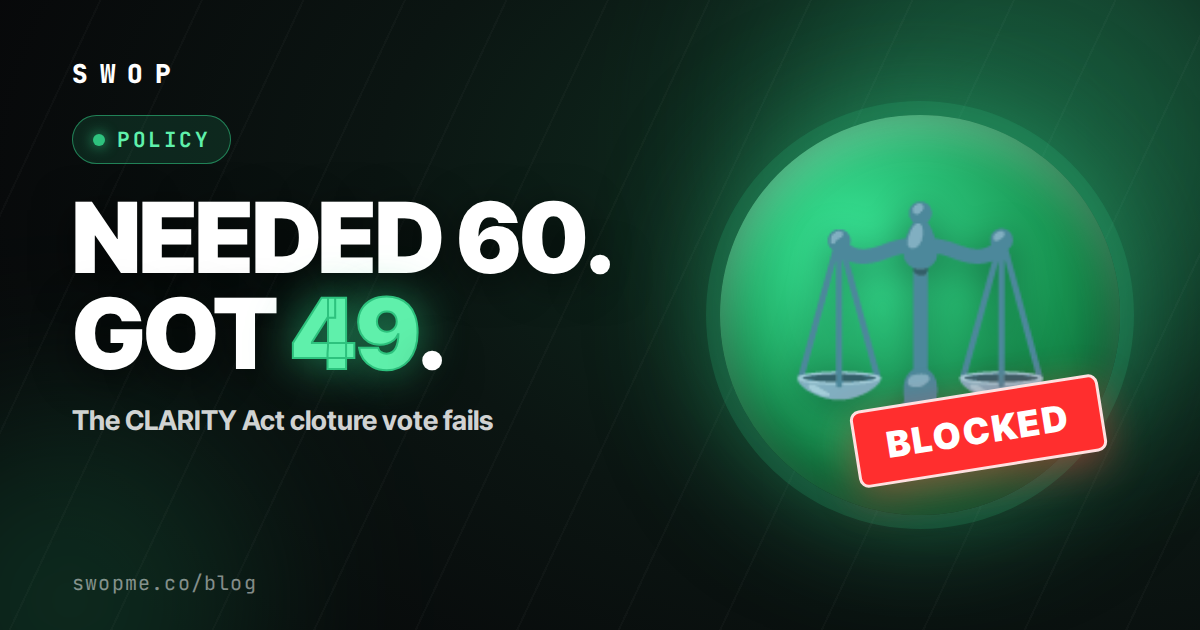
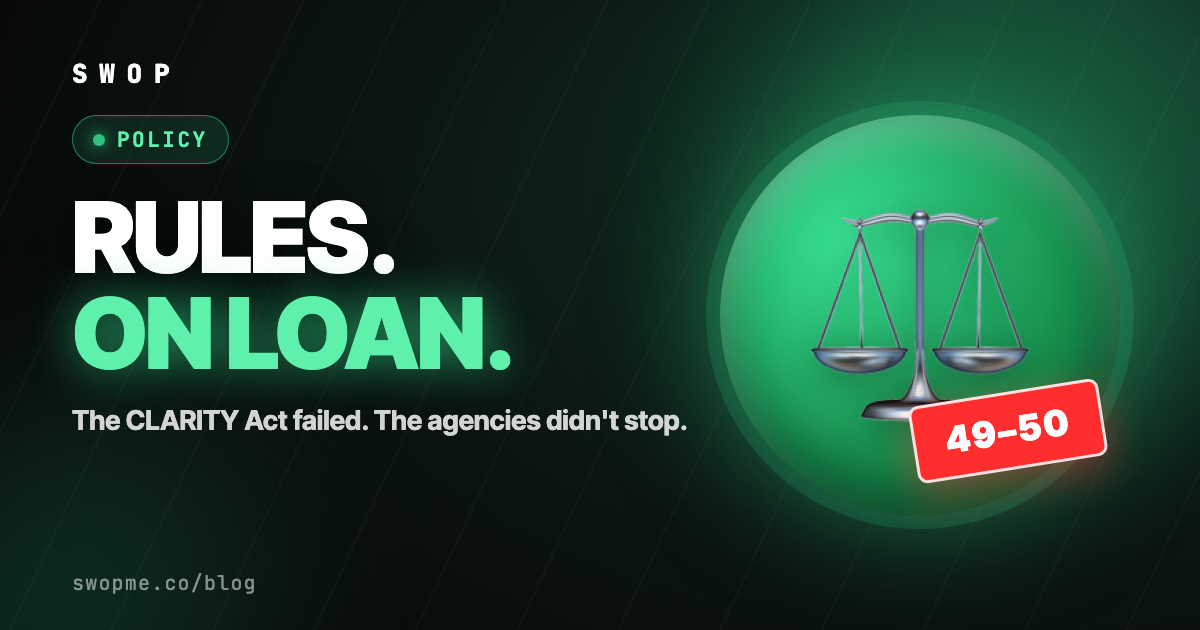
review: retarget CLARITY post to the case for legislation
Travis's direction: make the argument for why statute matters, researched
against what the SEC and CFTC are doing instead, framed around capital
entering the sector and builders staying stateside.

Factual fixes first:
- The draft said the 49-50 vote was 'nine votes short of 60' in two places.
  It is eleven short -- and one short of even a simple majority, which is
  the more telling number. Corrected both.
- Removed a shipped [NEEDS FACT] marker asking for dollar figures in the
  ethics dispute, replaced with what is actually reportable: no voting
  Democrat backed the motion and four Republicans opposed it.

Two new researched sections:
- 'What the agencies are building instead' -- SEC Project Crypto, the token
  taxonomy, and the Regulation Crypto Assets proposal of 2026-08-18; CFTC
  Crypto Sprint, listed spot crypto on DCMs since Dec 2025, and the joint
  March 2026 taxonomy naming sixteen digital commodities.
- 'Why a rule is not a law' -- the durability argument, made on
  administrative-law and capital-formation grounds rather than partisan
  ones: rules can be superseded, vacated, disapproved or never finalised,
  while capital underwriting ten-year horizons and founders choosing a
  jurisdiction are both buying duration.

Adds an explicit note separating our narrow claim (settle it in statute)
from the substantive fights that actually sank the vote, so the piece
argues for legislating without taking a side on the ethics provisions.
[…]

diff --git a/blog/clarity-act-vote-explained/index.html b/blog/clarity-act-vote-explained/index.html
@@ -3,14 +3,14 @@
 <head>
 <meta charset="UTF-8">
 <meta name="viewport" content="width=device-width, initial-scale=1.0, viewport-fit=cover">
-<title>CLARITY Act vote: what happened and what the bill does</title>
-<meta name="description" content="The Senate's CLARITY Act cloture vote failed 49-50 on September 15, 2026, nine votes short of 60. Here's what the bill does, why it stalled, and what's next.">
+<title>CLARITY Act Vote Failed: What the SEC and CFTC Are Doing Instead</title>
+<meta name="description" content="The Senate cloture vote failed 49-50 on September 15, 2026. The SEC and CFTC have built an alternative out of rulemaking — and why that is not the same as a law for capital and for builders.">
 <link rel="canonical" href="https://www.swopme.co/blog/clarity-act-vote-explained">
 <link rel="icon" href="/favicon.ico">
 <meta property="og:type" content="article">
 <meta property="og:site_name" content="Swop">
 <meta property="og:title" content="The CLARITY Act vote: what happened, and what the bill actually does">
-<meta property="og:description" content="A Senate cloture vote to advance crypto's market-structure bill failed 49-50 on September 15. What stalled it, and what passing would change.">
+<meta property="og:description" content="Agency rulemaking can deliver most of the substance of a market-structure regime. What it cannot deliver is the promise that it will still be there in four years.">
 <meta property="og:url" content="https://www.swopme.co/blog/clarity-act-vote-explained">
 <meta property="og:image" content="https://www.swopme.co/blog/clarity-act-vote-explained/og.png">
 <meta property="og:image:width" content="1200">
@@ -22,17 +22,25 @@
 <meta name="twitter:image" content="https://www.swopme.co/blog/clarity-act-vote-explained/og.png">
 <meta name="twitter:site" content="@swoplabs">
 <meta name="twitter:title" content="CLARITY Act vote: what happened and what the bill does">
-<meta name="twitter:description" content="A Senate cloture vote to advance crypto's market-structure bill failed 49-50 on September 15, 2026.">
+<meta name="twitter:description" content="Crypto did not lose its rules on September 15. It kept them on loan.">
 <script type="application/ld+json">
 {
   "@context": "https://schema.org",
   "@type": "Article",
   "headline": "The CLARITY Act vote: what happened, and what the bill actually does",
-  "description": "The Senate's CLARITY Act cloture vote failed 49-50 on September 15, 2026, nine votes short of 60. Here's what the bill would do, why it stalled, and what's next.",
+  "description": "The Senate cloture vote failed 49-50 on September 15, 2026. What the SEC and CFTC are building instead, and why agency rulemaking is not the same as a statute for capital formation and for where builders incorporate.",
   "datePublished": "2026-09-16",
   "dateModified": "2026-09-16",
-  "author": {"@type": "Organization", "name": "Swop Team", "url": "https://www.swopme.co/blog/authors/swop-team"},
-  "publisher": {"@type": "Organization", "name": "Swop", "url": "https://www.swopme.co"},
+  "author": {
+    "@type": "Organization",
+    "name": "Swop Team",
+    "url": "https://www.swopme.co/blog/authors/swop-team"
+  },
+  "publisher": {
+    "@type": "Organization",
+    "name": "Swop",
+    "url": "https://www.swopme.co"
+  },
   "mainEntityOfPage": "https://www.swopme.co/blog/clarity-act-vote-explained"
 }
 </script>
@@ -41,11 +49,62 @@
   "@context": "https://schema.org",
   "@type": "FAQPage",
   "mainEntity": [
-    {"@type": "Question", "name": "What is the CLARITY Act?", "acceptedAnswer": {"@type": "Answer", "text": "The CLARITY Act (the Digital Asset Market Clarity Act) is federal legislation that would split regulatory oversight of crypto between the SEC and CFTC. It defines a 'digital commodity' category for tokens on sufficiently decentralized networks, gives the CFTC primary jurisdiction over spot trading in that category, and leaves the SEC in charge of securities offerings, with a new limited exemption from full registration for qualifying token issuers."}},
-    {"@type": "Question", "name": "Did the CLARITY Act pass the Senate?", "acceptedAnswer": {"@type": "Answer", "text": "No. A Senate cloture vote to advance the bill failed 49-50 on September 15, 2026, nine votes short of the 60 needed to proceed. The House had already passed its own version, H.R. 3633, 294-134 in July 2025. A failed cloture vote does not kill a bill outright, but no new Senate vote is scheduled as of this writing."}},
-    {"@type": "Question", "name": "What are the three issues blocking the CLARITY Act?", "acceptedAnswer": {"@type": "Answer", "text": "Ethics restrictions on public officials' personal crypto holdings and income; developer liability for non-custodial software under the bill's Section 604; and a provision that would let exchanges pay yield on customer stablecoin balances, which opponents argue functions like an unlicensed bank deposit product."}},
-    {"@type": "Question", "name": "Does the CLARITY Act affect self-custody wallets like Swop?", "acceptedAnswer": {"@type": "Answer", "text": "The bill targets exchange and token-issuer market structure, not wallet custody directly. Swop is fully self-custodial — keys are generated and held on your device; Swop never holds them — regardless of how the market-structure debate resolves. The Section 604 developer-liability fight is the part most relevant to wallet and smart-contract builders, since it is the closest thing on the table to a federal rule on when publishing non-custodial software counts as money transmission."}},
-    {"@type": "Question", "name": "When will the Senate vote on the CLARITY Act again?", "acceptedAnswer": {"@type": "Answer", "text": "No new vote is scheduled. Senate leadership can call another cloture vote once the underlying disagreements narrow, but as of publication the ethics, developer-liability, and stablecoin-yield disputes remain unresolved."}}
+    {
+      "@type": "Question",
+      "name": "If the CLARITY Act failed, does the U.S. have no crypto rules?",
+      "acceptedAnswer": {
+        "@type": "Answer",
+        "text": "No. The SEC has proposed Regulation Crypto Assets, a tailored offering regime for crypto investment contracts, and has been working toward a token taxonomy under its Project Crypto initiative. The CFTC's Crypto Sprint has gone further in practice: listed spot crypto products began trading on federally regulated U.S. markets in December 2025, and a joint March 2026 release named sixteen assets as digital commodities under primary CFTC oversight."
+      }
+    },
+    {
+      "@type": "Question",
+      "name": "If the agencies are already regulating crypto, why does legislation matter?",
+      "acceptedAnswer": {
+        "@type": "Answer",
+        "text": "Because a rule and a statute differ in how easily they can be undone. A future commission can supersede a rule, a court can vacate it, Congress can disapprove it, and a proposed rule can simply never be finalised. Changing a statute requires both chambers and a signature. Capital committing across ten-year horizons and founders choosing where to incorporate are both buying duration, so guidance a successor could withdraw is discounted."
+      }
+    },
+    {
+      "@type": "Question",
+      "name": "What is the CLARITY Act?",
+      "acceptedAnswer": {
+        "@type": "Answer",
+        "text": "The CLARITY Act (the Digital Asset Market Clarity Act) is federal legislation that would split regulatory oversight of crypto between the SEC and CFTC. It defines a 'digital commodity' category for tokens on sufficiently decentralized networks, gives the CFTC primary jurisdiction over spot trading in that category, and leaves the SEC in charge of securities offerings, with a new limited exemption from full registration for qualifying token issuers."
+      }
+    },
+    {
+      "@type": "Question",
+      "name": "Did the CLARITY Act pass the Senate?",
+      "acceptedAnswer": {
+        "@type": "Answer",
+        "text": "No. A Senate cloture vote to advance the bill failed 49-50 on September 15, 2026, nine votes short of the 60 needed to proceed. The House had already passed its own version, H.R. 3633, 294-134 in July 2025. A failed cloture vote does not kill a bill outright, but no new Senate vote is scheduled as of this writing."
+      }
+    },
+    {
+      "@type": "Question",
+      "name": "What are the three issues blocking the CLARITY Act?",
+      "acceptedAnswer": {
+        "@type": "Answer",
+        "text": "Ethics restrictions on public officials' personal crypto holdings and income; developer liability for non-custodial software under the bill's Section 604; and a provision that would let exchanges pay yield on customer stablecoin balances, which opponents argue functions like an unlicensed bank deposit product."
+      }
+    },
+    {
+      "@type": "Question",
+      "name": "Does the CLARITY Act affect self-custody wallets like Swop?",
+      "acceptedAnswer": {
+        "@type": "Answer",
+        "text": "The bill targets exchange and token-issuer market structure, not wallet custody directly. Swop is fully self-custodial — keys are generated and held on your device; Swop never holds them — regardless of how the market-structure debate resolves. The Section 604 developer-liability fight is the part most relevant to wallet and smart-contract builders, since it is the closest thing on the table to a federal rule on when publishing non-custodial software counts as money transmission."
+      }
+    },
+    {
+      "@type": "Question",
+      "name": "When will the Senate vote on the CLARITY Act again?",
+      "acceptedAnswer": {
+        "@type": "Answer",
+        "text": "No new vote is scheduled. Senate leadership can call another cloture vote once the underlying disagreements narrow, but as of publication the ethics, developer-liability, and stablecoin-yield disputes remain unresolved."
+      }
+    }
   ]
 }
 </script>
@@ -66,9 +125,9 @@
 <div class="wrap">
 <div class="art-crumb"><a href="/blog">Blog</a><span>/</span><span class="cur">Policy</span></div>
 <h1 class="tight">The CLARITY Act vote: what happened, and what the bill actually does</h1>
-<p class="art-dek">A Senate cloture vote to advance crypto's market-structure bill failed 49-50 on September 15. Here's what stalled it, and what passing would actually change.</p>
+<p class="art-dek">The vote failed 49&ndash;50. But the agencies have spent a year building an alternative &mdash; and the gap between a rule and a law is the gap between capital that commits and capital that waits.</p>
 <div class="art-meta">
-<span class="by"><span class="ini">ST</span><a class="nm" href="/blog/authors/swop-team">Swop Team</a><span class="sep"></span><span class="mono">Sep 16, 2026</span><span class="sep"></span><span class="mono">Updated Sep 16, 2026</span><span class="sep"></span><span class="mono">7 min read</span></span>
+<span class="by"><span class="ini">ST</span><a class="nm" href="/blog/authors/swop-team">Swop Team</a><span class="sep"></span><span class="mono">Sep 16, 2026</span><span class="sep"></span><span class="mono">Updated Sep 16, 2026</span><span class="sep"></span><span class="mono">9 min read</span></span>
 <span class="share"><a href="#" id="copy-link">Copy link</a><a href="https://x.com/intent/tweet?text=The%20CLARITY%20Act%20cloture%20vote%20failed%2049-50.%20Here%27s%20what%20the%20bill%20actually%20does%3A&url=https%3A%2F%2Fwww.swopme.co%2Fblog%2Fclarity-act-vote-explained" target="_blank" rel="noopener">X</a><a href="https://warpcast.com/~/compose?text=The%20CLARITY%20Act%20cloture%20vote%20failed%2049-50.%20Here%27s%20what%20the%20bill%20actually%20does%3A&embeds[]=https%3A%2F%2Fwww.swopme.co%2Fblog%2Fclarity-act-vote-explained" target="_blank" rel="noopener">Farcaster</a></span>
 </div>
 </div>
@@ -82,11 +141,14 @@
 <a href="#s2">The September 15 vote</a>
 <a href="#s3">The three fights holding it up</a>
 <a href="#s4">What happens next</a>
-<a href="#s5">What it means for self-custody and builders</a>
+<a href="#s5">What the agencies are building instead</a>
+<a href="#s6">Why a rule is not a law</a>
+<a href="#s7">What it means for self-custody and builders</a>
 <a href="#faq">FAQ</a>
 </aside>
 <article class="prose">
-<p>The CLARITY Act is the bill meant to give crypto exchanges and token issuers a federal rulebook, splitting oversight between the Securities and Exchange Commission and the Commodity Futures Trading Commission instead of leaving classification questions to case-by-case enforcement lawsuits. On September 15, 2026, a Senate cloture vote to take it up failed 49-50 — nine votes short of the 60 needed — over three unresolved disputes: ethics restrictions on public officials' crypto income, developer liability for non-custodial software, and whether exchanges can pay yield on stablecoin balances. The bill is not dead, but no new vote is scheduled.</p>
+<p>The CLARITY Act is the bill meant to give crypto exchanges and token issuers a federal rulebook, splitting oversight between the Securities and Exchange Commission and the Commodity Futures Trading Commission instead of leaving classification questions to case-by-case enforcement lawsuits. On September 15, 2026, a Senate cloture vote to take it up failed 49&ndash;50 &mdash; eleven votes short of the 60 needed, and one short of even a simple majority — over three unresolved disputes: ethics restrictions on public officials' crypto income, developer liability for non-custodial software, and whether exchanges can pay yield on stablecoin balances. The bill is not dead, but no new vote is scheduled.</p>
+<p>The more useful question is what happens without a statute &mdash; because the answer is not nothing. The SEC and the CFTC have spent the past year building a substitute out of rulemaking and interpretive guidance, and much of it is already operating. That substitute is real and it is useful. It is also structurally weaker than a law in precisely the way that decides whether capital commits and whether builders incorporate here.</p>
 
 <h2 id="s1">What the bill would actually do</h2>
 <p>The Senate has been negotiating its own companion to <a class="link" href="https://www.congress.gov/bill/119th-congress/house-bill/3633/text" target="_blank" rel="noopener">H.R. 3633, the Digital Asset Market Clarity Act</a>, which the House passed 294-134 in July 2025. The core idea is a jurisdictional line that does not currently exist in statute: the bill defines a "digital commodity" category for tokens on networks decentralized enough that no single party controls them, hands the CFTC primary authority over spot trading in that category, and leaves the SEC in charge of securities offerings and primary-market fundraising — with a new, limited exemption from full SEC registration for issuers that meet specific conditions.</p>
@@ -98,7 +160,7 @@
 <h2 id="s3">The three fights holding it up</h2>
 <p>Reporting on the negotiations converges on the same three sticking points, and none of them is really about whether crypto should have a market-structure law — they're about specific text inside this one.</p>
 <ul>
-<li><strong>Ethics rules on officials' crypto income.</strong> Democrats want stronger restrictions on sitting officials' personal financial ties to crypto ventures, a concern sharpened by public reporting on the President's own crypto-related income. Republicans added some ethics language in the Sunday revision; Democratic holdouts said it wasn't enough. <em>[NEEDS FACT: the precise scope and dollar figures cited in this dispute — see PR notes.]</em></li>
+<li><strong>Ethics rules on officials' crypto income.</strong> Democrats want stronger restrictions on sitting officials' personal financial ties to crypto ventures, a concern sharpened by public reporting on the President's own crypto-related income. Republicans added some ethics language in the Sunday revision; Democratic holdouts said it wasn't enough. Reporting put the coalition's collapse squarely here rather than on the market-structure framework itself: no voting Democrat supported the motion, and four Republicans opposed it.</li>
 <li><strong>Section 604 — developer liability.</strong> This section incorporates language from the Blockchain Regulatory Certainty Act: a developer who writes non-custodial software, and who cannot control or execute a user's transaction, would not be classified as a money-transmitting business solely for building or publishing that software. A companion amendment preserves criminal liability for anyone who "knowingly" facilitates illicit transactions. The fight is over exactly where "publishing code" ends and "operating a service" begins — and how much comfort that line actually gives a developer before the fact rather than after an indictment.</li>
 <li><strong>Stablecoin yield.</strong> As drafted, the bill would let exchanges pay yield on customers' stablecoin balances. Opponents — banking-industry lobbyists and some Democrats — argue that functions like an unlicensed bank deposit product, since it pays a return on a balance without the capital and disclosure rules banks operate under. It's also commercially loaded: stablecoin reward programs are a real revenue line for large exchanges today, so this isn't an abstract argument for the companies on either side of it.</li>
 </ul>
@@ -106,15 +168,36 @@
 <h2 id="s4">What happens next</h2>
 <p>A failed cloture vote is a procedural stop, not a repeal. Senate leadership can schedule another cloture vote whenever it believes the votes are there, and that usually means the underlying text has to move first. As of publication, no new vote is on the calendar, and each of the three disputes above is still open. Because the House and Senate would need to agree on identical text before anything reaches the President, a Senate breakthrough would still require reconciling with the House-passed H.R. 3633 rather than simply adopting whatever the Senate eventually passes.</p>
 
-<h2 id="s5">What it means for self-custody and builders</h2>
+<h2 id="s5">What the agencies are building instead</h2>
+<p>While the bill stalled, both agencies moved. Treating the failed vote as &ldquo;no rules&rdquo; misreads the situation badly &mdash; the more accurate description is that rules are arriving, just from regulators rather than from Congress.</p>
+<p><strong>The SEC.</strong> Chairman Paul Atkins&rsquo; <em>Project Crypto</em> initiative has been working toward a token taxonomy that sorts assets into categories rather than litigating them one at a time &mdash; digital commodities, digital collectibles, digital tools, and tokenized securities. On August 18, 2026 the Commission went further and proposed <em>Regulation Crypto Assets</em>, a tailored offering regime for investment contracts involving crypto assets, drawing on Commissioner Hester Peirce&rsquo;s earlier token safe-harbor work. It contemplates a time-limited startup exemption &mdash; on the order of a capped raise while a network works toward maturity. The SEC said plainly that part of the point is to reduce the incentive for issuers to organise offshore.</p>
+<p><strong>The CFTC.</strong> Its <em>Crypto Sprint</em> has been more concrete still. Listed spot crypto products began trading on federally regulated U.S. markets for the first time in December 2025, with designated contract markets permitted to list spot products &mdash; including leveraged contracts for retail &mdash; under the same oversight applied to futures. And in a joint release in March 2026, the agencies published a taxonomy naming sixteen assets as digital commodities under primary CFTC oversight, Bitcoin, Ether and Solana among them.</p>
+<p>That is a meaningful amount of clarity, and it arrived faster than the legislative process did. Anyone claiming the United States has no crypto policy is describing 2022.</p>
+
+<h2 id="s6">Why a rule is not a law</h2>
+<p>Here is the part that the vote count actually decides. A rule and a statute can say identical things and still be worth different amounts to the person deciding where to put money or where to incorporate, because they differ in how hard they are to undo.</p>
+<p>An agency rule is the product of the agency that wrote it. A future commission can propose a new rule that supersedes it. A court can vacate it. Congress can pass a resolution of disapproval. A proposal &mdash; and <em>Regulation Crypto Assets</em> is still a proposal &mdash; can simply never be finalised. None of that requires anyone to act in bad faith; it is the ordinary machinery of administrative law working as designed. A statute is not immune to change either, but changing one requires both chambers and a signature, which is a far higher bar than a change of chair.</p>
+<p>That difference shows up directly in two places.</p>
+<ul>
+<li><strong>Capital underwrites duration.</strong> A fund committing to a ten-year vehicle, or a bank deciding whether to custody, is pricing a regulatory regime across a horizon longer than any single administration. Guidance that could be withdrawn by a successor gets discounted &mdash; not to zero, but discounted. Meanwhile the funding environment has tightened on its own: new venture fund formation hit its lowest quarterly total since 2020 in Q1 2026, with roughly $1.1 billion committed across eight new funds, and the top thirty firms have been absorbing the large majority of what is raised. When capital is scarce and concentrated, the marginal allocator has every reason to wait for the version that survives an election.</li>
+<li><strong>Builders incorporate where the rules keep.</strong> Choosing a jurisdiction is a multi-year, expensive, hard-to-reverse decision, and founders make it against the rules they expect to exist at exit, not the rules today. That is why offshore structuring persisted through a friendlier turn in Washington, and why the SEC named onshore issuance as an explicit goal of its own proposal. Compliance cost compounds the same way: licensing and compliance can run into the millions annually at scale, which is survivable against a stable rulebook and brutal against one that might be rewritten mid-build.</li>
+</ul>
+<p>So the honest reading of September 15 is not that crypto lost its rules. It is that crypto kept its rules on loan. Agency action can deliver most of the substance of a market-structure regime; what it cannot deliver is the commitment that the regime will still be there in four years &mdash; and duration is the specific thing both capital and founders are buying.</p>
+<div class="note"><span class="k">To be clear about the disagreement</span>The three fights that sank this vote are real, and reasonable people land in different places on all of them &mdash; particularly the ethics provisions, which is where the coalition actually broke. The argument here is narrower and, we think, separable: whatever the right substantive answers are, settling them in statute is worth more than settling them in guidance. That case does not depend on any particular bill passing.</div>
+
+<h2 id="s7">What it means for self-custody and builders</h2>
 <p>None of the three fights above change the thing that actually determines whether your assets are safe today: who holds the signing key. <strong>Swop is fully self-custodial — keys are generated and held on your device; Swop never holds them.</strong> That doesn't move regardless of how the SEC/CFTC jurisdictional question gets settled, because the bill is about exchange and issuer market structure, not wallet custody.</p>
 <p>The part of this fight that matters most directly to builders is Section 604. Until something like it becomes law, whether writing and publishing a smart contract, a DEX front end, or a non-custodial wallet interface exposes a developer to money-transmission liability keeps getting decided case by case rather than by a bright-line federal rule — which is exactly the ambiguity the digital-commodity classification fight is also trying to resolve for exchanges and issuers. <a class="link" href="https://apps.apple.com/us/app/swop-connecting-the-world/id1593201322">Swop</a> runs on Solana, Ethereum, Base, and Polygon. Transactions on Swop are gas-sponsored — you don't need to hold SOL or ETH to transact — and none of that changes with this bill either way.</p>
 
 <h2 id="faq">FAQ</h2>
+<h3>If the bill failed, does the U.S. have no crypto rules?</h3>
+<p>No &mdash; that describes 2022, not now. The SEC has proposed Regulation Crypto Assets, a tailored offering regime for crypto investment contracts, and has been working toward a token taxonomy under its Project Crypto initiative. The CFTC's Crypto Sprint has gone further in practice: listed spot crypto products began trading on federally regulated U.S. markets in December 2025, and a joint March 2026 release named sixteen assets as digital commodities under primary CFTC oversight.</p>
+<h3>If the agencies are already doing it, why does legislation matter?</h3>
+<p>Because a rule and a statute differ in how easily they are undone. A future commission can supersede a rule, a court can vacate it, Congress can disapprove it, and a proposal can simply never be finalised &mdash; all ordinary administrative process, no bad faith required. Changing a statute takes both chambers and a signature. Capital committing to ten-year horizons and founders choosing a jurisdiction are both buying duration, and guidance that a successor could withdraw gets discounted accordingly.</p>
 <h3>What is the CLARITY Act?</h3>
 <p>Federal legislation that would split crypto oversight between the SEC and CFTC: a new "digital commodity" category for sufficiently decentralized tokens goes to the CFTC for spot trading, while the SEC keeps authority over securities offerings, with a limited registration exemption for qualifying issuers.</p>
 <h3>Did the CLARITY Act pass the Senate?</h3>
-<p>No. A cloture vote to advance it failed 49-50 on September 15, 2026 — nine votes short of 60. The House passed its own version, H.R. 3633, 294-134 in July 2025. The bill isn't dead, but no new Senate vote is scheduled.</p>
+<p>No. A cloture vote to advance it failed 49&ndash;50 on September 15, 2026 &mdash; eleven short of the 60 required, and one short of a simple majority. The House passed its own version, H.R. 3633, 294-134 in July 2025. The bill isn't dead, but no new Senate vote is scheduled.</p>
 <h3>What are the three issues blocking the CLARITY Act?</h3>
 <p>Ethics restrictions on officials' personal crypto holdings and income; developer liability for non-custodial software under Section 604; and a stablecoin-yield provision that critics say functions like an unlicensed bank deposit product.</p>
 <h3>Does the CLARITY Act affect self-custody wallets like Swop?</h3>

diff --git a/blog/clarity-act-vote-explained/og.html b/blog/clarity-act-vote-explained/og.html
@@ -32,7 +32,7 @@
 
   h1 { font-size:98px; line-height:.98; font-weight:900; letter-spacing:-.025em;
        text-shadow:0 8px 40px rgba(0,0,0,.6); }
-  h1 .num { color:#5ff0ab; -webkit-text-stroke:2px #2ec27e; text-shadow:0 0 46px rgba(46,194,126,.75); }
+  h1 .num { color:#5ff0ab; text-shadow:0 0 46px rgba(46,194,126,.75); }
   .sub { margin-top:22px; font-size:27px; font-weight:700; color:rgba(255,255,255,.82); }
 
   /* right visual: scales of justice on a glowing disc, with a rejection stamp */
@@ -61,13 +61,13 @@
     <div class="left">
       <div class="logo">SWOP</div>
       <div class="kick"><div class="dot"></div>Policy</div>
-      <h1>NEEDED 60.<br>GOT <span class="num">49</span>.</h1>
-      <div class="sub">The CLARITY Act cloture vote fails</div>
+      <h1>RULES.<br><span class="num">ON LOAN.</span></h1>
+      <div class="sub">The CLARITY Act failed. The agencies didn't stop.</div>
     </div>
   </div>
   <div class="right">
     <div class="coin"><span>⚖</span></div>
-    <div class="stamp">BLOCKED</div>
+    <div class="stamp">49&ndash;50</div>
   </div>
   <div class="url">swopme.co/blog</div>
 </body></html>

diff --git a/editorial/PLAYBOOK.md b/editorial/PLAYBOOK.md
@@ -76,6 +76,16 @@ thumbnail, not a quiet title card. Reference: `blog/gasless-crypto-wallet/og.htm
 - **Keep:** SWOP wordmark top-left, kicker pill, `swopme.co/blog` small at bottom.
 - **Never:** dense text, more than ~10 words total, misleading claims not backed by
   the article, off-palette rainbow colors (red is reserved for the "bad thing" prop).
+- **Never use `-webkit-text-stroke` on the headline.** At weight 900 the renderer
+  strokes the font's INTERIOR contours too, printing ghost outlines through the
+  letters. It is subtle at full size and obvious at feed size. Caught and fixed by
+  hand twice (2026-09-14 ai-agent banner, 2026-09-16 clarity banner) before anyone
+  noticed it shipped in `gasless-crypto-wallet/og.html` and `crypto-link-in-bio/og.html`,
+  which still carry it. Use `text-shadow` for the accent glow instead.
+- **The hook must argue the post's actual thesis.** If the piece's argument changes in
+  review, the banner is part of the article, not decoration — rewrite it. (2026-09-16:
+  a "BLOCKED" banner had to be rebuilt when the CLARITY post was retargeted from
+  reporting a failed vote to arguing why statute beats agency guidance.)
 - **Required furniture, every banner** (the drafter keeps omitting these — fixed by
   hand on 2026-09-02, 09-09 and 09-10): SWOP wordmark top-left, the kicker PILL
   (`.kick` with the green dot) under it, hook, optional one-line subtitle, and
